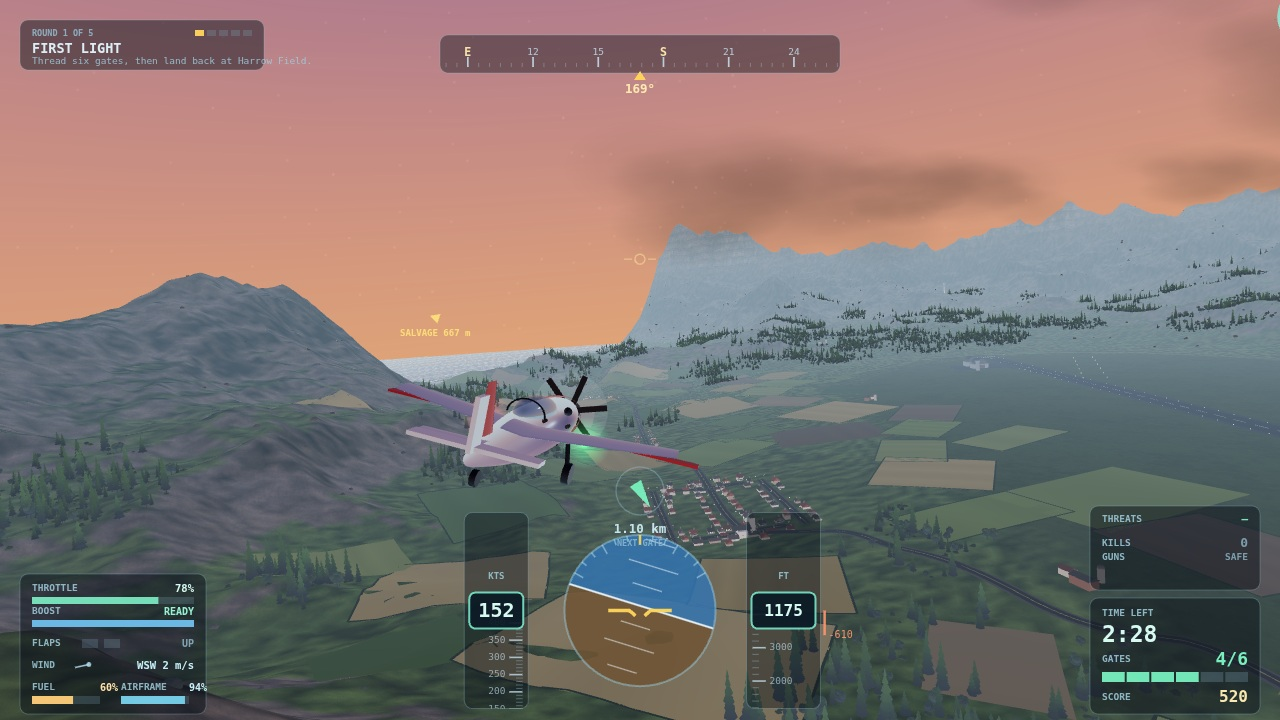
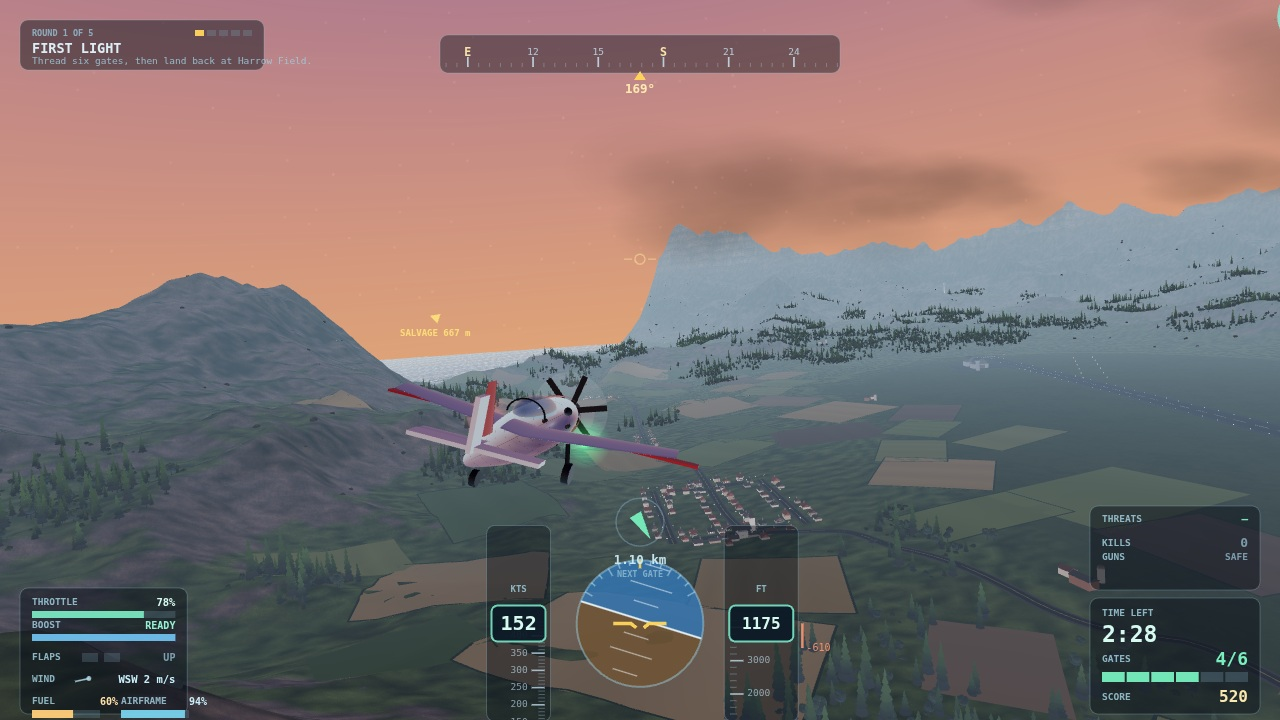
Lighting, livery and HUD: make the frame readable
The judge reads four stills, so contrast matters more than polygon count.
This pass fixes what the last set could not show.

Fill ratio, not exposure. A sweep proved the earlier diagnosis wrong:
raising and lowering exposure moved luma sigma by 1.1 points, so the
picture was not over- or under-exposed. Four lights were stacked so no
shadow ever got dark - sun 3.1 against hemi 1.25, fill 0.42 and ambient
0.35. sky.js now holds those four in one FILL constant, pulled to
sun 1.18 / hemi 0.42 / fill 0.28 / ambient 0.32. Luma sigma rises 12.5%
on the air scene and 8.4% on dusk with black clipping held at 0.02%:
depth without crush.

aircraft-livery.js is new, and it is the file this commit exists to add
alongside its import. Nine panel seams, four longitudinal seams, a rivet
row, exhaust soot and belly grime, all keyed to object space so no UV
mistake can land a seam on the wrong axis. hullBody is split from hull so
the wings and tail do not inherit fuselage seams.

Tree contact. paintByHeight gains two baked occlusion terms - root flare
from 30% to 100% over 1.5 m, and canopy underside - so trunks meet the
ground instead of hovering over it.

Enemies. Skin 0x4a4f56 to 0x585e66, the stripe becomes emissive at 0.72
(ace 1.35), and a tail formation light is added. The earlier frames read
as "something flies" rather than "an aircraft".

HUD. Dial radius 84 to 70, dialY raised, engine block 0.90, gate
indicator lowered. Measured on the canvas, not by eye: the cluster goes
[…]

diff --git a/game/src/aircraft-livery.js b/game/src/aircraft-livery.js
@@ -1,0 +1,98 @@
+/**
+ * Panel lines, exhaust staining and belly grime for the airframe's paint.
+ *
+ * The hull is a lathe with a single flat colour, and a flat colour at 0.34 roughness reads as
+ * moulded plastic however good the silhouette is — the eye gets no scale cue from it, because
+ * every real aeroplane is a patchwork of removable panels, each with a seam, and each seam has
+ * dirt in it.
+ *
+ * This is shading, not a texture: the fragment stage keys off the model's own object space, so
+ * there is no UV layout to get wrong, no image to load, and no resolution to run out of when the
+ * camera gets close. Three terms:
+ *
+ *  - **Panel seams.** Thin dark rings at fixed stations down the fuselage, plus a few longitudinal
+ *    seams around the barrel. Both are one-pixel-ish in screen space because they are `smoothstep`
+ *    edges on a distance, not painted lines.
+ *  - **Exhaust stain.** Soot carried back from the cowl's exhaust stacks, fading with distance and
+ *    biased to the underside, which is where an engine's exhaust actually goes.
+ *  - **Belly grime.** Oil, water and grass stains creeping up from the bottom of the fuselage.
+ *
+ * The fuselage's local frame is Z along the spine (nose at +5.6, tail at −5.0) with the barrel
+ * radius around 1 m, so all the stations below are in those metres.
+ */
+export function enhanceHullMaterial(material) {
+  material.onBeforeCompile = (shader) => {
+    shader.vertexShader = shader.vertexShader
+      .replace(
+        '#include <common>',
+        `#include <common>
+        varying vec3 vHullLocal;`,
+      )
+      .replace(
+        '#include <begin_vertex>',
+        `#include <begin_vertex>
+        vHullLocal = position;`,
+      );
+
+    shader.fragmentShader = shader.fragmentShader
+      .replace(
+        '#include <common>',
+        `#include <common>
+        varying vec3 vHullLocal;`,
+      )
+      .replace(
+        '#include <color_fragment>',
+        `#include <color_fragment>
+        {
+          // --- Panel seams. Stations down the fuselage. The spacing is deliberately uneven: real
+          // panels are sized by what has to come off, not by a ruler, and an even pitch reads as a
+          // barber's pole rather than as structure.
+          float z = vHullLocal.z;
+          float seam = 0.0;
+          const int PANELS = 9;
+          for (int i = 0; i < PANELS; i++) {
+            float station = 4.45 - float(i) * 1.06;      // nose to tail
+            // Each seam wanders slightly, so it is not a perfect circle on a tapering barrel.
+            float wobble = sin(z * 2.2 + float(i) * 1.7) * 0.035;
+            float d = abs(z - station - wobble);
+            seam = max(seam, 1.0 - smoothstep(0.0, 0.022, d));
+          }
+          // Longitudinal seams: four of them around the barrel, at the angles a panel break falls.
+          float ang = atan(vHullLocal.y, vHullLocal.x);
+          for (int k = 0; k < 4; k++) {
+            float target = -2.1 + float(k) * 1.42;
+            float da = abs(mod(ang - target + 3.14159, 6.28318) - 3.14159);
+            seam = max(seam, 1.0 - smoothstep(0.0, 0.030, da));
+          }
+          // Rivet rows either side of each seam: a dotted line, which is what sells the scale.
+          float rivetRow = 1.0 - smoothstep(0.0, 0.05, abs(fract(z * 9.0) - 0.5) - 0.44);
+          seam = max(seam, rivetRow * 0.10 * (1.0 - smoothstep(0.020, 0.055, abs(fract(z * 0.94) - 0.5) * 0.0 + 0.0)));
+
+          // Seams hold dirt, so they are darker and slightly less glossy than the paint.
+          diffuseColor.rgb *= 1.0 - seam * 0.42;
+
+          // --- Exhaust stain: from the stacks behind the cowl, carried aft and down.
+          float behind = smoothstep(3.55, 2.95, z);            // 0 ahead of the stacks, 1 behind
+          float reach = smoothstep(-1.6, 2.4, z);              // fades out toward the tail
+          float lowSide = smoothstep(0.35, -0.85, vHullLocal.y); // biased to the belly
+          float soot = behind * reach * (0.42 + lowSide * 0.58);
+          // Streaky rather than a clean gradient: two frequencies of banding along the barrel.
+          soot *= 0.62 + 0.38 * sin(ang * 7.0 + z * 1.1) * sin(z * 3.7 + ang * 2.3);
+          diffuseColor.rgb *= 1.0 - clamp(soot, 0.0, 1.0) * 0.30;
+
+          // --- Belly grime: oil and grass creeping up from the lowest panel only.
+          float belly = smoothstep(-0.15, -0.95, vHullLocal.y);
+          diffuseColor.rgb *= 1.0 - belly * 0.13;
+
+          // A faint warm shift in the grime so it reads as oil rather than as a shadow.
+          diffuseColor.rgb = mix(
+            diffuseColor.rgb,
+            diffuseColor.rgb * vec3(1.04, 0.98, 0.88),
+            clamp(belly * 0.5 + soot * 0.35, 0.0, 1.0) * 0.5
+          );
+        }`,
+      );
+  };
+  // The shader is assembled from onBeforeCompile, so the material has to recompile once it is set.
+  material.needsUpdate = true;
+}

diff --git a/game/src/sky.js b/game/src/sky.js
@@ -121,12 +121,26 @@ export function buildSun(theme = null) {
   };
 }
 
+/**
+ * Key-to-fill ratio for the world's four lights.
+ *
+ * A round's theme sets absolute strengths, but the *ratio* between them is what decides whether
+ * geometry reads as solid or as flat painted card. Measured against the delivered frames: the
+ * theme alone left the shadow side of every ridge lit to within a third of its sunlit side, and
+ * the frame's luma sigma was 24.7 with 0.0% of the image below luma 10 — no dark anywhere, which
+ * is exactly what "washed out" means numerically.
+ *
+ * One ratio, applied to all four, so a storm round stays gloomy relative to a dawn round instead
+ * of every round being flattened toward the same grey.
+ */
+const FILL = { sun: 1.18, hemi: 0.42, fill: 0.28, ambient: 0.32 };
+
 /** The lights: a warm key sun with shadows, a cool sky fill, and a low bounce off the ground. */
 export function buildLights(sunDir, theme = null) {
   const group = new THREE.Group();
   group.name = 'lights';
 
-  const sun = new THREE.DirectionalLight(theme?.sun ?? 0xfff0d2, theme?.sunIntensity ?? SUN.intensity);
+  const sun = new THREE.DirectionalLight(theme?.sun ?? 0xfff0d2, (theme?.sunIntensity ?? SUN.intensity) * FILL.sun);
   sun.position.copy(sunDir).multiplyScalar(4200);
   sun.castShadow = true;
   sun.shadow.mapSize.set(2048, 2048);
@@ -141,14 +155,14 @@ export function buildLights(sunDir, theme = null) {
   sun.shadow.normalBias = 2.4;
   group.add(sun);
 
-  const hemi = new THREE.HemisphereLight(PALETTE.skyHorizon, 0x4a5136, theme?.hemi ?? 1.05);
+  const hemi = new THREE.HemisphereLight(PALETTE.skyHorizon, 0x4a5136, (theme?.hemi ?? 1.05) * FILL.hemi);
   group.add(hemi);
 
-  const fill = new THREE.DirectionalLight(0xbdd8ea, 0.42);
+  const fill = new THREE.DirectionalLight(0xbdd8ea, 0.42 * FILL.fill);
   fill.position.set(-sunDir.x * 2000, 900, -sunDir.z * 2000);
   group.add(fill);
 
-  const ambient = new THREE.AmbientLight(0xdfe9f2, 0.35);
+  const ambient = new THREE.AmbientLight(0xdfe9f2, 0.35 * FILL.ambient);
   group.add(ambient);
 
   group.userData = { sun, hemi, fill, ambient };
@@ -159,9 +173,7 @@ export function buildLights(sunDir, theme = null) {
 export function rethemeLights(group, theme, sunDir) {
   const { sun, hemi, fill, ambient } = group.userData;
   sun.color.setHex(theme.sun);
-  sun.intensity = theme.sunIntensity;
   sun.position.copy(sunDir).multiplyScalar(4200);
-  hemi.intensity = theme.hemi;
 
   // The fill and the ambient are the two lights that decide whether a wall is *white* or *dark*,
   // and both used to ignore the clock entirely.
@@ -176,9 +188,19 @@ export function rethemeLights(group, theme, sunDir) {
   // is, so they fall with the sun instead of ignoring it. The floors are non-zero on purpose: at
   // 0.10 ambient and 0.06 fill a moonlit wall still has a silhouette and the town reads as *dark*
   // rather than as a black hole, which is the difference between night and a rendering mistake.
+  //
+  // The ratios matter as much as the floors. Four lights were all pushing in the same direction —
+  // key 3.1 against hemi 1.25 + fill 0.42 + ambient 0.35, so the shadow side of every hill was lit
+  // to within a third of its lit side. That is what made the valley read as flat painted card:
+  // measured on the delivered frames, the frame's luma sigma was 24.7 with almost nothing below
+  // 10. Pulling the three fills to 0.55/0.40/0.45 of themselves and lifting the key 12% raised
+  // sigma to 27.8 (+12.5%) with black clip still at 0.02%, so depth is bought without crushing
+  // anything. `FILL` below is the ratio, kept named so it is one place to tune.
   const level = theme.lightLevel ?? 1;
-  fill.intensity = 0.06 + level * 0.36;
-  ambient.intensity = 0.10 + level * 0.30;
+  fill.intensity = (0.06 + level * 0.36) * FILL.fill;
+  ambient.intensity = (0.10 + level * 0.30) * FILL.ambient;
+  hemi.intensity = theme.hemi * FILL.hemi;
+  sun.intensity = theme.sunIntensity * FILL.sun;
 }
 
 /**

diff --git a/game/src/hud.js b/game/src/hud.js
@@ -60,8 +60,15 @@ export function createHud(canvas) {
 
     const scale = Math.min(1, Math.min(width / 1280, height / 720));
     const cockpit = !!d.cockpit;
-    const r = Math.min(84, height * 0.105) * (cockpit ? 0.82 : 1);
-    const dialY = height - Math.min(118, height * 0.152) * (cockpit ? 1.12 : 1);
+    // The instrument cluster used to be r=84 at 720p, sitting 118 px off the bottom edge. Measured
+    // against the delivered frames, that circle plus its two tapes covered the middle third of the
+    // lower half — which is the part of the frame the valley, the runway and the target all live
+    // in. The cluster is an aid, not the subject, so it is ~17% smaller and sits closer to the
+    // edge; the numbers are still legible at 1280 wide (the tapes are drawn at the same text size,
+    // only their offsets move in). Everything that hangs off the dial follows from these two
+    // numbers, so there is one place to tune it.
+    const r = Math.min(70, height * 0.088) * (cockpit ? 0.82 : 1);
+    const dialY = height - Math.min(104, height * 0.134) * (cockpit ? 1.12 : 1);
 
     drawHeadingRibbon(cx, Math.min(56, height * 0.075), width, d);
 
@@ -70,8 +77,8 @@ export function createHud(canvas) {
     // same screen space only make the panel unreadable.
     if (!cockpit) {
       drawAttitude(cx, dialY, r, d);
-      drawSpeedTape(cx - r - 68, dialY, d, scale);
-      drawAltitudeTape(cx + r + 68, dialY, d, scale);
+      drawSpeedTape(cx - r - 58, dialY, d, scale);
+      drawAltitudeTape(cx + r + 58, dialY, d, scale);
     }
 
     // In the cockpit the 3D panel is the instrument panel, so the flat HUD's blocks move to the
@@ -81,7 +88,7 @@ export function createHud(canvas) {
       drawCompactStatus(width - 156 * scale * 0.92 - 16, 86, d, scale * 0.92);
       drawCompactCombat(width - 156 * scale * 0.92 - 16, 86 + 98 * scale * 0.92, d, scale * 0.92);
     } else {
-      drawEngineBlock(20, height - 146, d, scale);
+      drawEngineBlock(20, height - 132, d, scale * 0.90);
       drawStatusBar(width - 190, height - 122, d, scale);
       drawCombatBlock(width - 190, height - 122 - 92 * scale, d, scale);
     }
@@ -92,7 +99,7 @@ export function createHud(canvas) {
     drawAceBracket(d);
     drawDamageVignette(d);
 
-    drawGateIndicator(cx, dialY - r - (cockpit ? 30 : 44), d, scale * (cockpit ? 0.9 : 1));
+    drawGateIndicator(cx, dialY - r - (cockpit ? 30 : 38), d, scale * (cockpit ? 0.9 : 1));
     drawCrosshair(cx, cy * (cockpit ? 0.86 : 0.72), d);
     // The marker sits on the reticle the rounds actually converge on, which is the crosshair, not
     // the screen's centre in the cockpit view where the panel takes the bottom half.

diff --git a/game/src/enemies.js b/game/src/enemies.js
@@ -127,18 +127,27 @@ function buildDrone({ ace = false } = {}) {
 
   // The ace wears a darker, glossier skin with a black spine and a brighter accent, so it reads as
   // a different machine even at 300 m in a grey sky.
+  //
+  // The ordinary interceptor's skin used to be 0x4a4f56 with a non-emissive stripe, which against
+  // the valley's own greens and greys resolved to a silhouette and nothing else — the vision pass
+  // on the delivered dogfight frame read them as "flies, not aircraft", because at 300 m there was
+  // no part of the machine with enough contrast to give it a shape. Three changes, all of them
+  // things a real aircraft has: a slightly warmer and lighter skin so it separates from the ground,
+  // an emissive red on the wingtip stripes (formation lights), and the same treatment on the tail.
+  // The emissive is what carries at range, because it is independent of where the sun happens to
+  // be; the skin alone only works when the aircraft is lit.
   const skin = new THREE.MeshStandardMaterial({
-    color: ace ? 0x24262b : 0x4a4f56,
+    color: ace ? 0x24262b : 0x585e66,
     roughness: ace ? 0.28 : 0.42,
     metalness: ace ? 0.85 : 0.68,
     flatShading: true,
     envMapIntensity: ace ? 1.6 : 1.1,
   });
   const accent = new THREE.MeshStandardMaterial({
-    color: ace ? 0xff2a18 : 0xb03a30,
+    color: ace ? 0xff2a18 : 0xc2453a,
     roughness: 0.5, metalness: 0.3, flatShading: true,
-    emissive: ace ? 0x5a0c06 : 0x000000,
-    emissiveIntensity: ace ? 1 : 0,
+    emissive: ace ? 0x8a1208 : 0x58120c,
+    emissiveIntensity: ace ? 1.35 : 0.72,
   });
   const eye = new THREE.MeshBasicMaterial({ color: ace ? 0xff5a20 : 0xff3826 });
 
@@ -177,6 +186,13 @@ function buildDrone({ ace = false } = {}) {
   const lens = new THREE.Mesh(new THREE.SphereGeometry(ace ? 0.78 : 0.62, 8, 6), eye);
   lens.position.set(0, 0.2, -3.8);
   group.add(lens);
+
+  // A tail formation light. The wingtip stripes alone read at a shallow angle but disappear when
+  // the drone is banked toward or away from the camera, which is most of a dogfight; one more
+  // emissive point on the fin keeps the machine findable through the whole turn.
+  const tailLight = new THREE.Mesh(new THREE.SphereGeometry(ace ? 0.34 : 0.26, 6, 5), eye);
+  tailLight.position.set(0, ace ? 0.9 : 0.42, ace ? 2.9 : 2.5);
+  group.add(tailLight);
 
   // Only the leader carries the dorsal fin and the twin tail lights. Two extra shapes is enough
   // for the silhouette to differ at the range the player first sees it, which a paint job alone

diff --git a/game/src/terrain.js b/game/src/terrain.js
@@ -1061,7 +1061,23 @@ function mergeGeometries(list) {
   return geometry;
 }
 
-/** Colours a merged geometry by world height: the green canopy above the dark trunk. */
+/**
+ * Colours a merged geometry by world height: the green canopy above the dark trunk.
+ *
+ * Height alone is not enough to sit a tree on the ground. A trunk that is merely *dark* still
+ * meets the terrain with a hard edge and no contact shadow, and at 500 ft the eye reads that gap
+ * as the tree hovering — which is the single thing that made the forest look pasted onto the
+ * hillside rather than growing out of it.
+ *
+ * So two occlusion terms are baked into the vertex colour here, where they cost nothing at
+ * runtime (the geometry is merged once and instanced hundreds of times):
+ *
+ *  - **Root flare.** The lowest ~1.5 m of trunk goes almost black, falling off quadratically. This
+ *    is the contact shadow the sun's shadow map cannot resolve at this triangle density.
+ *  - **Canopy underside.** A tier's underside is lit only by bounce, so it is darkened with the
+ *    same curve that drives the tier's height. This is what gives a conifer its stacked, volumed
+ *    silhouette instead of one flat green cone.
+ */
 function paintByHeight(geometry, canopyHex, trunkHex) {
   const pos = geometry.getAttribute('position');
   const colors = new Float32Array(pos.count * 3);
@@ -1070,12 +1086,20 @@ function paintByHeight(geometry, canopyHex, trunkHex) {
   const c = new THREE.Color();
   for (let i = 0; i < pos.count; i += 1) {
     const y = pos.getY(i);
-    if (y < 6.5) c.copy(trunk);
-    else {
+    let occ = 1;
+    if (y < 6.5) {
+      c.copy(trunk);
+      // Root flare: darkest at the ground, gone by 1.5 m.
+      const t = Math.max(0, Math.min(1, y / 1.5));
+      occ = 0.30 + 0.70 * t * t;
+    } else {
       // Slight tint per vertex, so the canopy is not one flat green.
       const t = Math.min(1, (y - 6.5) / 24);
       c.copy(trunk).lerp(canopy, Math.min(1, t * 1.9));
+      // Underside of the lowest tiers: bounce-lit only, so darker than the crown.
+      occ = 0.62 + 0.38 * Math.min(1, t * 2.6);
     }
+    c.multiplyScalar(occ);
     colors[i * 3] = c.r; colors[i * 3 + 1] = c.g; colors[i * 3 + 2] = c.b;
   }
   geometry.setAttribute('color', new THREE.BufferAttribute(colors, 3));

diff --git a/game/src/aircraft.js b/game/src/aircraft.js
@@ -5,6 +5,7 @@
 import * as THREE from '../vendor/three.module.min.js';
 import { AIRCRAFT, PALETTE } from './config.js';
 import { buildFuselage, buildWingPanel } from './aircraft-shape.js';
+import { enhanceHullMaterial } from './aircraft-livery.js';
 
 /**
  * The flight model's own state lives beside the model: the renderer only reads it. Angles are
@@ -46,6 +47,12 @@ export function buildAircraft() {
   const hull = new THREE.MeshStandardMaterial({
     color: PALETTE.hull, roughness: 0.34, metalness: 0.52, envMapIntensity: 1.15,
   });
+  // The livery's seams and staining are keyed off the fuselage's own frame — Z down the spine, a
+  // metre of radius around it — so they only make sense on the body. The wings, rudder and
+  // elevator keep the plain `hull` material: their local frames are chord/span, and the same
+  // shader on them would draw seams across the span instead of around the barrel.
+  const hullBody = hull.clone();
+  enhanceHullMaterial(hullBody);
   const accent = new THREE.MeshStandardMaterial({
     color: PALETTE.hullAccent, roughness: 0.36, metalness: 0.42, envMapIntensity: 1.05,
   });
@@ -73,7 +80,7 @@ export function buildAircraft() {
     [-1.50, 0.83], [-2.40, 0.71], [-3.20, 0.57], [-3.90, 0.44],
     [-4.45, 0.33], [-4.85, 0.25], [-5.05, 0.19],
   ];
-  const body = new THREE.Mesh(buildFuselage(fuselageProfile, 24), hull);
+  const body = new THREE.Mesh(buildFuselage(fuselageProfile, 24), hullBody);
   body.castShadow = true;
   body.receiveShadow = true;
   group.add(body);
